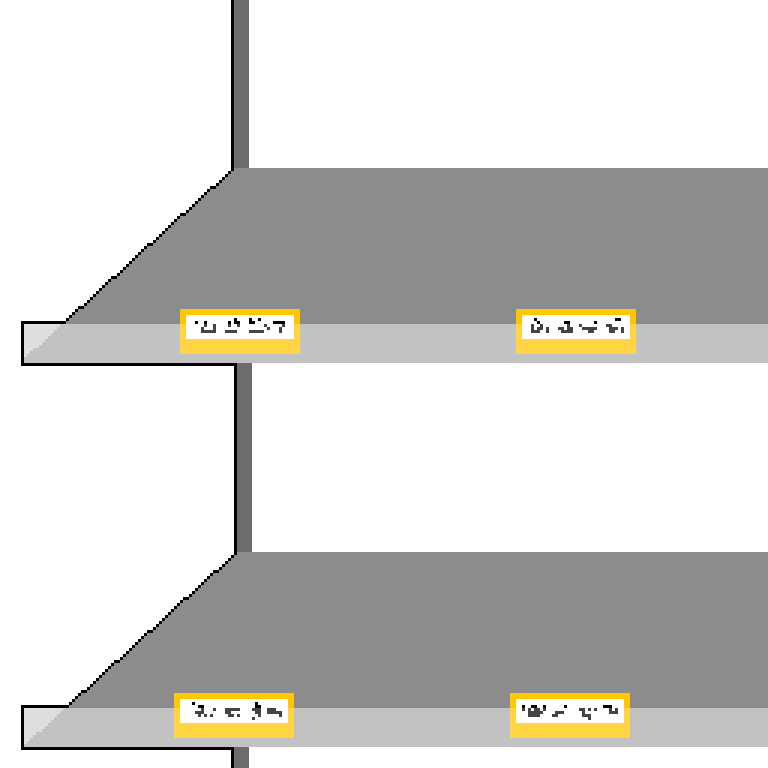
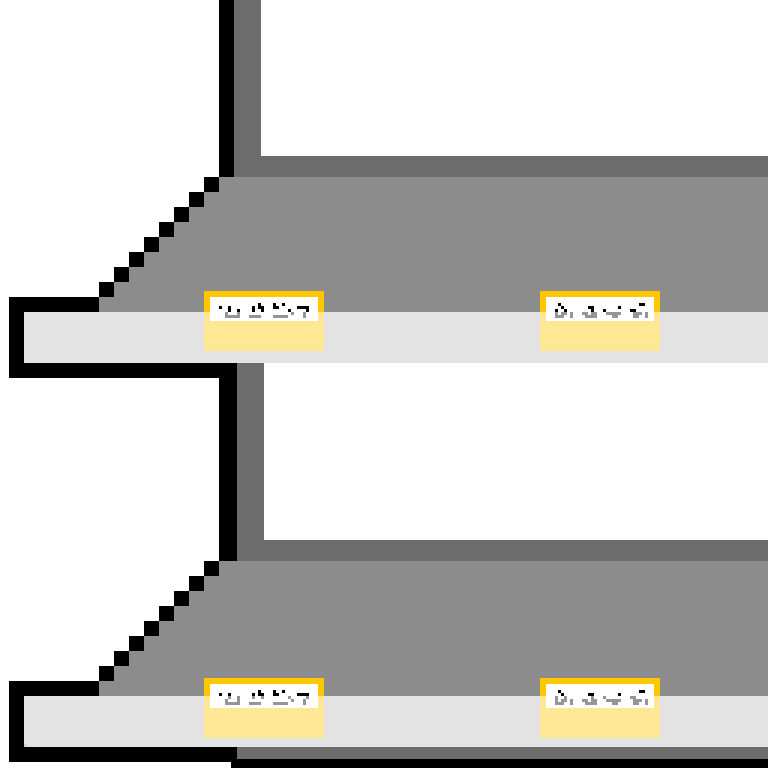
기타수정

Changed region(s): [[0.0, 0.0, 1.0, 1.0]]

diff --git a/WinterProject/WebContent/store24_main.js b/WinterProject/WebContent/store24_main.js
@@ -12,8 +12,8 @@ var config = {
 
 var game = new Phaser.Game(config);
 
-var bg_매대위;
-var bg_매대아래;
+var bg_매대오;
+var bg_매대왼;
 var bg_판1;
 var bg_판2;
 var bg_판3;
@@ -47,6 +47,7 @@ function preload ()
     this.load.image('긴판', 'assets/store24/긴판.png');
     this.load.image('오른마무리판', 'assets/store24/오른마무리판.png');
     this.load.image('매대', 'assets/store24/매대.png');
+    this.load.image('매대반전', 'assets/store24/매대반전.png');
 
     this.load.image('편순이', 'assets/store24/편순이.png');
 
@@ -83,10 +84,10 @@ function create ()
     bg_판4=this.add.image(630,480,'오른마무리판').setOrigin(0);
     bg_판4.setScale(1/7,1/7);
 
-    bg_매대위=this.add.image(512,0,'매대').setOrigin(0);
-    bg_매대위.setScale(1/3,1/3);
-    bg_매대아래=this.add.image(0,0,'매대').setOrigin(0);
-    bg_매대아래.setScale(1/3,1/3);
+    bg_매대오=this.add.image(512,64,'매대').setOrigin(0);
+    bg_매대오.setScale(1/3,1/3);
+    bg_매대왼=this.add.image(0,64,'매대반전').setOrigin(0);
+    bg_매대왼.setScale(1/3,1/3);
 
     편순이=this.add.image(280,100,'편순이').setOrigin(0);
     편순이.setScale(1/5,1/5);
@@ -98,11 +99,27 @@ function create ()
     //this.time.events.loop(Phaser.Timer.SECOND*2, createProduct, this); //주기적으로 함수 호출 
 }
 
+
 /*
 function createProduct(){    
     var product=this.add.image(0,480,'과자_홈런볼').setOrigin(0);
     product.setScale(1/7,1/7);
 }*/
+
+function failProduct(){
+    //시간내에 못해서 아웃된 상품 처리코드
+    //destroy
+    //reduceLife()호출
+}
+
+function checkInput(){
+    //키보드 입력과 해당 상품 기대 입력값이 같으면 성공
+    //아니면 실패->생명하나 감소 reduceLife()호출
+}
+
+function reduceLife(){
+    //생명하나감소 
+}
 
 function update(time,delta)
 {
@@ -110,5 +127,8 @@ function update(time,delta)
    if (product.x > 768)
     {
         product.x =-30;
+        //실패->failProduct() 호출
     }
 }
+
+
